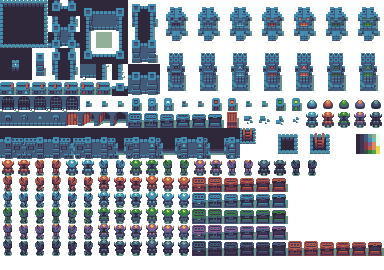
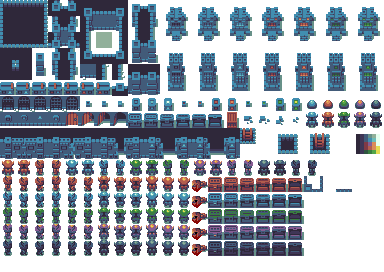
Added killing to the code

diff --git a/src/web_server/static/hallway.js b/src/web_server/static/hallway.js
@@ -74,6 +74,7 @@ function HallwayHunters() {
         board_size: 30,
         players: [],
         player_data: {
+            dead: false,
             name: "",
             position: {
                 x: 0,
@@ -258,23 +259,27 @@ function renderKillCam() {
 }
 
 function drawPlayer(player, S, xOffset, yOffset) {
-    const interpolation = -(player.movement_timer / player.movement_cooldown);
-    const vector = directionToVector(player.direction, interpolation * S);
-    const x = player.position.x * S + xOffset + Math.round(vector.x);
-    const y = player.position.y * S + yOffset + Math.round(vector.y);
+    const x = player.position.x * S + xOffset;
+    const y = player.position.y * S + yOffset;
 
-    // If the player is not moving, reset its animation frame to beginning.
-    const animationName = player.name + "_" + player.direction;
-    const animation = game.animations[animationName];
+    let sprite;
+    if (player.dead) {
+        sprite = game.tiles[player.name + "_dead"];
+    } else {
+        // If the player is not moving, reset its animation frame to beginning.
+        const animationName = player.name + "_" + player.direction;
+        const animation = game.animations[animationName];
 
-    // Player animation is bound to moving
-    animation.active = player.is_moving;
-    if (!player.is_moving) {
-        // Set player frame to this when not moving
-        animation.frameNumber = FRAMES_PER_ANIMATION - 2;
-        animation.currentSprite = 0;
+
+        // Player animation is bound to moving
+        animation.active = player.is_moving;
+        if (!player.is_moving) {
+            // Set player frame to this when not moving
+            animation.frameNumber = FRAMES_PER_ANIMATION - 2;
+            animation.currentSprite = 0;
+        }
+        sprite = getAnimationFrame(animation);
     }
-    const sprite = getAnimationFrame(animation);
 
     context.drawImage(sprite, x, y);
     if (player.item !== null) {
@@ -365,10 +370,8 @@ function gameLoop() {
     // Compute the offset for all tiles, to center rendering on the player.
     const S = (TILE_SIZE + TILE_PADDING);
 
-    const interpolation = game.state.player_data.movement_timer / game.state.player_data.movement_cooldown;
-    const vector = directionToVector(game.state.player_data.direction, interpolation * S);
-    const xOffset = -game.state.player_data.position.x * S + canvas.width / 2 - TILE_SIZE / 2 + Math.round(vector.x);
-    const yOffset = -game.state.player_data.position.y * S + canvas.height / 2 - TILE_SIZE / 2 + Math.round(vector.y);
+    const xOffset = -game.state.player_data.position.x * S + canvas.width / 2 - TILE_SIZE / 2;
+    const yOffset = -game.state.player_data.position.y * S + canvas.height / 2 - TILE_SIZE / 2;
 
     // Draw tiles
     context.fillStyle = "rgb(0, 0, 0, 0.3)";
@@ -511,8 +514,9 @@ function split_sheet() {
             game.tiles[color + "_180_" + i] = context.getImageData((i + 6) * S, (11 + row) * S, S, S);
             game.tiles[color + "_0_" + i] = context.getImageData((i + 9) * S, (11 + row) * S, S, S);
         }
+        game.tiles[color + "_dead"] = context.getImageData(12 * S, (11 + row) * S, S, S);
         for (let i = 0; i < 6; i++) {
-            game.tiles["chest_" + color + "_" + i] = context.getImageData((i + 12) * S, (11 + row) * S, S, S);
+            game.tiles["chest_" + color + "_" + i] = context.getImageData((i + 13) * S, (11 + row) * S, S, S);
         }
     });
 
@@ -675,8 +679,7 @@ document.addEventListener("keydown", (ev) => {
     // TODO: Refactor this to not be dumb (maybe get valid actions from server?)
     if (ev.key === "c" ||
         ev.key === "x" ||
-        ev.key === "z")
-    {
+        ev.key === "z") {
         sendAction(ev.key);
     }
 });

diff --git a/src/web_server/lib/game/PlayerClasses.py b/src/web_server/lib/game/PlayerClasses.py
@@ -52,6 +52,10 @@ class PlayerClass:
         self.spawn_position = Point(1, 1)
         self.position = Point(1, 1)
         self.last_position = self.position
+
+        self.dead = False
+        self.can_move = True
+
         self.move_suggestion = None
         self.updated = True
 
@@ -107,9 +111,17 @@ class PlayerClass:
         self.sprint_timer = SPRINT_COOLDOWN
         self.passives.append(Passive(60 * 2, self.stop_sprinting, name="sprint"))
 
+    def die(self):
+        self.passives = []
+        self.dead = True
+        self.can_move = False
+        self.game.broadcast("%s died" % self.profile.discord_username)
+
+
     def kill(self):
         for passive in self.passives:
             if passive.name == "kill":
+                self.can_move = True
                 self.passives.remove(passive)
                 self.killing = None
                 self.kill_timer = 0
@@ -123,6 +135,9 @@ class PlayerClass:
         if len(visible_players) == 0:
             raise InvalidAction("There is nobody around to kill.")
 
+        # Cant move while killing
+        self.can_move = False
+
         self.kill_timer = KILL_COOLDOWN
         self.killing = visible_players[0]
         # self.movement_timer = 0  # Cannot move during kill
@@ -131,10 +146,12 @@ class PlayerClass:
     def finish_kill(self):
         self.movement_timer = 0
         self.kill_timer = KILL_COOLDOWN
+        self.can_move = True
 
-        self.game.broadcast("%s died" % self.killing.profile.discord_username)
+        # TODO: check if this is your target
+        self.killing.die()
+
         self.killing = None
-        # TODO: Actually kill the person
 
     def stop_sprinting(self):
         self.movement_cooldown = MOVEMENT_COOLDOWN
@@ -171,6 +188,9 @@ class PlayerClass:
         self.position = self.spawn_position = point
 
     def move(self):
+        if not self.can_move:
+            return
+
         # If there is no suggested move, we can stop right here
         if self.move_suggestion is None:
             self.is_moving = False
@@ -246,6 +266,7 @@ class PlayerClass:
         # Default dictionary to see other players name
         state = {
             "username": self.profile.discord_username,
+            "dead": self.dead,
             "ready": self.ready,
             "position": self.get_interpolated_position().to_json(),
             "name": self.name,

diff --git a/src/web_server/lib/game/HallwayHunters.py b/src/web_server/lib/game/HallwayHunters.py
@@ -129,17 +129,22 @@ class HallwayHunters:
             sio.emit("game_state", self.export_board(player, reduced=True), room=player.socket, namespace="/hallway")
 
     def export_board(self, player: PlayerClass, reduced=False):
-        if player.updated:
-            tiles = player.get_visible_tiles()
+        # Show all players when not yet started.
+        if self.phase == Phases.NOT_YET_STARTED:
+            players = self.player_list
         else:
-            tiles = None
+            players = player.get_visible_players()
 
         data = {
             "started": self.phase == Phases.STARTED,
             "player_data": player.to_json(),
-            "players": [player.to_json() for player in player.get_visible_players()],
-            "visible_tiles": tiles,
+            "players": [player.to_json() for player in players],
         }
+
+        # If this players line of sight changed, send new data.
+        if player.updated:
+            data.update({"visible_tiles": player.get_visible_tiles()})
+
         if not reduced:
             data.update({
                 "board": self.initial_board_json,

diff --git a/src/web_server/lib/socket/hallway_socket.py b/src/web_server/lib/socket/hallway_socket.py
@@ -56,6 +56,9 @@ def get_state(data):
 
     profile = session_user()
     player = game.get_player(profile=profile)
+    if player is None:
+        game.add_player(profile, request.sid)
+
     sio.emit("game_state", game.export_board(player), room=player.socket, namespace="/hallway")
 
 
